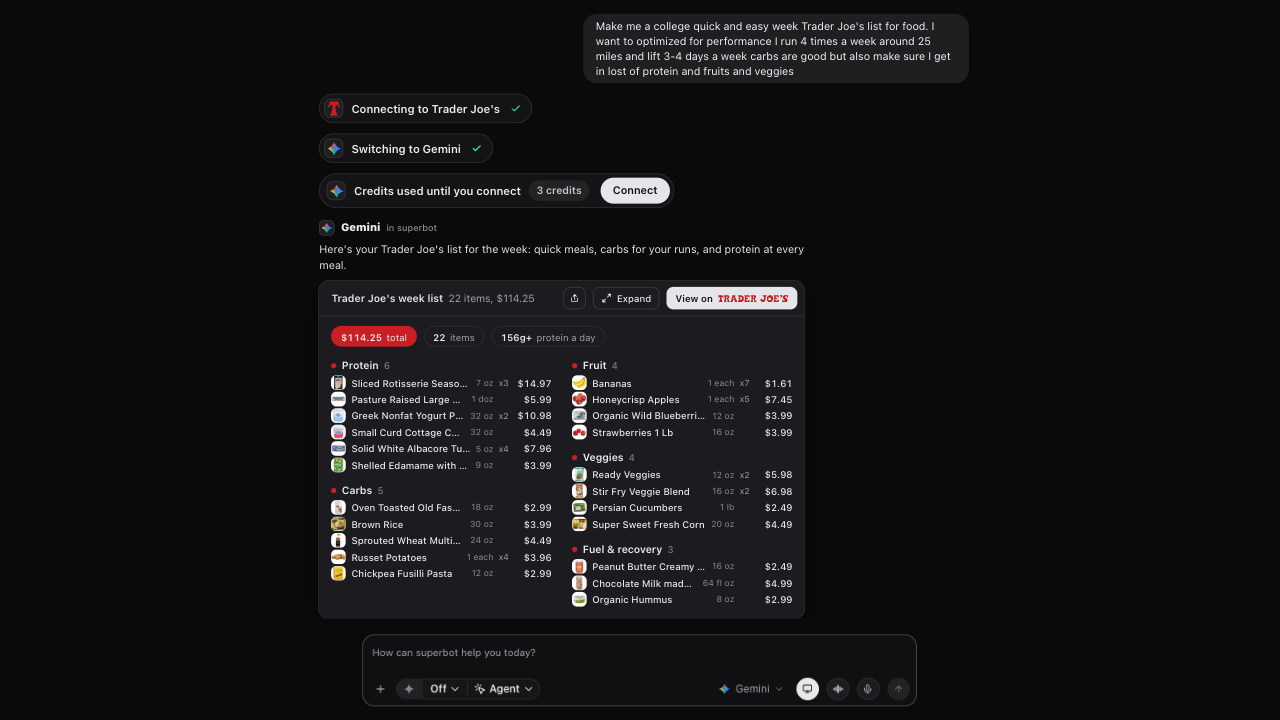
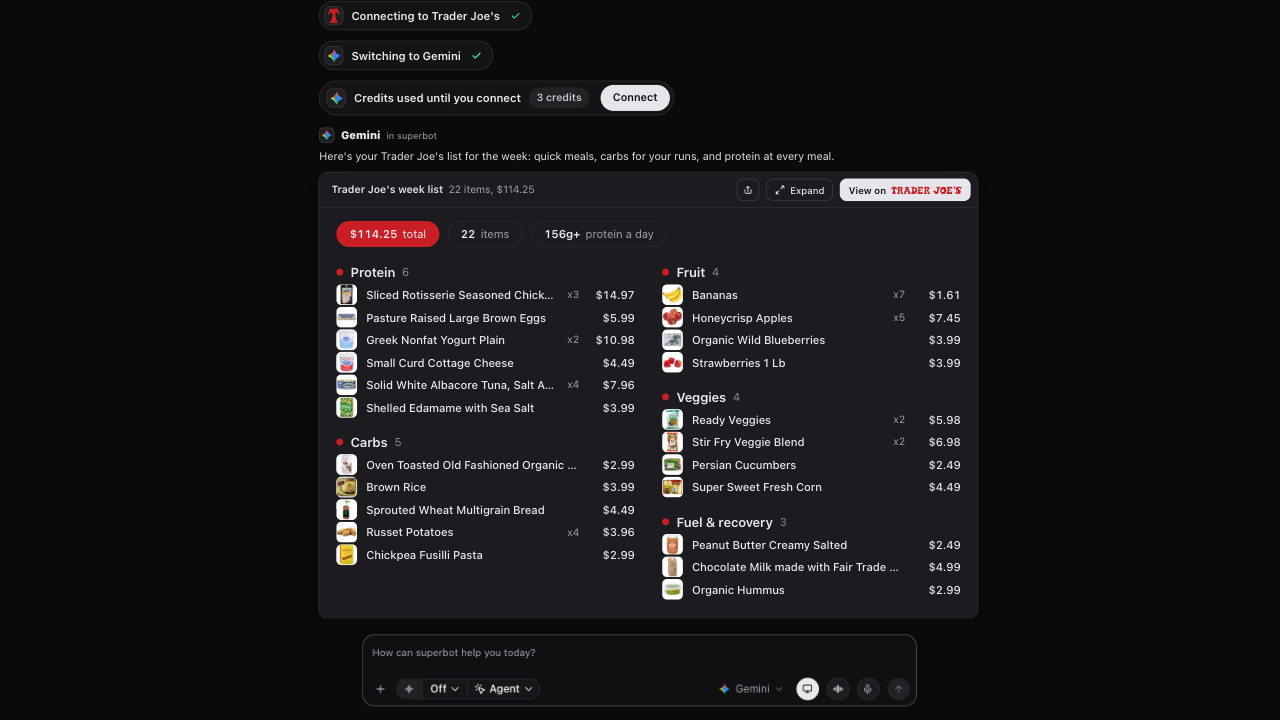
Trader Joe's variant: bigger 760px card, skeleton shimmer start, browsing frame and size column removed

diff --git a/animations/gemini-muse-meme-superbot-6fbc38f8/scenes/tabs-assets/beats/traderjoes.4aaedb8c.js b/animations/gemini-muse-meme-superbot-6fbc38f8/scenes/tabs-assets/beats/traderjoes.4aaedb8c.js
@@ -1,32 +1,27 @@
 // Trader Joe's list beat (the 'traderjoes' variant): asked for a college-budget week of Trader Joe's food for a runner who
 // lifts, superbot connects Trader Joe's, then Gemini answers with a line and an artifact card in the bakery variant's frame
 // (bakery.005f5570.js: title, Share, Expand and, in Publish's place, a View on Trader Joe's link to the store, as the
-// doordash variant's View in DoorDash). The card first shows the real traderjoes.com search page being browsed: the capture
-// scrolls under a small address pill and the products that make the list are ringed in Trader Joe's red one after another,
-// while a status pill counts "Picked N of <COUNT>". At T.g0 the page lands as the finished list the way the spending
-// variant's chart does (beats/thumb-land.309eb9c5.js: a soft sweep, then over LAND seconds the page fades out and the list
-// fades in as it settles from 1.08x): a row of pills (total, item count, protein a day) over two columns of borderless
-// grocery groups, thumbnail, name, size, quantity and line price per row. Squeezed into the window the router leaves
+// doordash variant's View in DoorDash). The card is wider than the bakery's 560: it spans the 760px chat column like the
+// Default 10 grid (catsurf10.a35789f3.css), over a 760 x 475 view. It enters as an empty skeleton, the bare surface with the
+// soft white sweep a climbing tile shows before its thumbnail lands (beats/thumb-land.309eb9c5.js shimmer over .bk-sh), and
+// at T.g0 the finished list lands the way a climbing thumbnail does (the sweep fades out while the list fades in settling
+// from 1.08x): a row of pills (total, item count, protein a day) over two columns of borderless grocery groups, thumbnail,
+// name, quantity (only when more than one) and line price per row. Squeezed into the window the router leaves
 // (times(r, end)); the scene is a pure function of t, with no pointer. Its stylesheet (../traderjoes.4aaedb8c.css) loads
-// with the module. Every product, size, price, thumbnail and the page capture are real, read from traderjoes.com on
-// 2026-10-15 and kept in ./traderjoes-data.4aaedb8c.js (sources and the protein arithmetic are documented there and in
+// with the module. Every product, size, price and thumbnail is real, read from traderjoes.com on 2026-10-15 and kept in
+// ./traderjoes-data.4aaedb8c.js (sources and the protein arithmetic are documented there and in
 // img/traderjoes.4aaedb8c/CREDITS.txt); this module only lays them out, so no figure here is typed in by hand.
-import { lerp, seg, outCubic, inOutCubic, streamCount } from '../../../lib.9b47fc30.js';
+import { lerp, seg, outCubic, streamCount } from '../../../lib.9b47fc30.js';
 import { track } from '../../../loads.9e82faf1.js';
 import { landing, shimmer, settle } from './thumb-land.309eb9c5.js';
 import { EXPAND, loadSheet as loadFrameSheet } from './bakery.005f5570.js?v=3';
 // the Share control every output card carries, in front of Expand
 import { shareBtn } from './share.29a362ea.js';
-import { STORE, LOGO, RED, SITE, GROUPS, TOTAL, COUNT, PROTEIN_PER_DAY } from './traderjoes-data.4aaedb8c.js';
+import { STORE, LOGO, RED, GROUPS, TOTAL, COUNT, PROTEIN_PER_DAY } from './traderjoes-data.4aaedb8c.js';
 
 const SAY = "Here's your Trader Joe's list for the week: quick meals, carbs for your runs, and protein at every meal.";
-const CSS = new URL('../traderjoes.4aaedb8c.css?v=1', import.meta.url).href;
-const VIEW = { w: 560, h: 350 }; // the bakery frame's view
-const SCALE = VIEW.w / SITE.w; // the capture fitted to the view's width
-const PAGE_H = SITE.h * SCALE; // its height at that scale
-const MAX_SCROLL = PAGE_H - VIEW.h; // the camera's last stop: the page's end at the view's bottom
-const PICK_AT = 300; // a picked row is ringed when its centre crosses this y in the view, clear of the status pill
-const SEC = 0.97; // the last row is ringed just before the camera comes to rest
+const CSS = new URL('../traderjoes.4aaedb8c.css?v=5', import.meta.url).href;
+const SKELETON = 0.9; // seconds the empty card sweeps before the list lands: a little over one pass of thumb-land's sweep (1.4 per second)
 // the two columns: groups by name, so a renamed group fails loudly instead of silently dropping out
 const COLS = [['Protein', 'Carbs'], ['Fruit', 'Veggies', 'Fuel & recovery']];
 
@@ -50,15 +45,12 @@ function loadSheet() {
   document.head.appendChild(sheet);
 }
 
-const CHECK = '<svg viewBox="0 0 24 24" aria-hidden="true"><path d="M5 12.5l4.5 4.5L19 7.5"/></svg>';
-
 export default {
   // `end` is the base route's end plus this variant's `extra` (chat.9b47fc30.js routeBy), which holds the finished list
   times(r, end = r + 2.35) {
     const T = { r };
     T.card = r + 0.22;
-    T.a0 = r + 0.5; T.a1 = r + 2.0; // the camera's scroll down the page
-    T.g0 = r + 2.3; // the list's landing time, after the last row is ringed
+    T.g0 = T.card + SKELETON; // the list's landing time
     T.end = end;
     return T;
   },
@@ -66,23 +58,13 @@ export default {
     loadFrameSheet();
     loadSheet();
     const T = k.T;
-    // the camera's offset down the page at t: ease in and out, blended halfway with linear so the rows stay legible mid-scroll
-    const scrollAt = (t) => { const p = seg(t, T.a0, T.a1); return MAX_SCROLL * lerp(p, inOutCubic(p), 0.5); };
-    // when each picked row is ringed: the first t at which the camera has brought its centre up to PICK_AT
-    const picks = SITE.picks.map((p) => {
-      const need = Math.min(((p.y + p.h / 2) * SCALE) - PICK_AT, MAX_SCROLL * SEC);
-      let lo = T.a0, hi = T.a1;
-      for (let i = 0; i < 40; i++) { const mid = (lo + hi) / 2; if (scrollAt(mid) < need) lo = mid; else hi = mid; }
-      return { ...p, at: hi };
-    });
-    const rings = picks.map((p) => `<span class="tj-pick" style="left:${(p.x * SCALE).toFixed(2)}px;top:${(p.y * SCALE).toFixed(2)}px;width:${(p.w * SCALE).toFixed(2)}px;height:${(p.h * SCALE).toFixed(2)}px"><i>${CHECK}</i></span>`).join('');
     const sections = COLS.map((names) => `<div class="tj-col">${names.map((n) => {
       const g = group(n);
-      const rows = g.items.map((it) => `<li><img src="${x.img(it.img)}" width="96" height="96" alt=""><span class="tj-n">${x.esc(it.name)}</span><span class="tj-s">${x.esc(it.size)}</span><span class="tj-q">${it.qty > 1 ? `x${it.qty}` : ''}</span><b>${x.esc(usd(it.price * it.qty))}</b></li>`).join('');
+      const rows = g.items.map((it) => `<li><img src="${x.img(it.img)}" width="96" height="96" alt=""><span class="tj-n">${x.esc(it.name)}</span><span class="tj-q">${it.qty > 1 ? `x${it.qty}` : ''}</span><b>${x.esc(usd(it.price * it.qty))}</b></li>`).join('');
       return `<section class="tj-g"><h3><i></i>${x.esc(g.name)}<small>${g.items.length}</small></h3><ul>${rows}</ul></section>`;
     }).join('')}</div>`).join('');
     const proteinPill = PROTEIN_PER_DAY == null ? '' : `<span class="tj-kpi"><b>${PROTEIN_PER_DAY}g+</b> protein a day</span>`;
-    const srRows = GROUPS.flatMap((g) => g.items.map((it) => `<tr><th scope="row">${x.esc(it.name)}</th><td>${x.esc(g.name)}</td><td>${x.esc(it.size)}</td><td>${it.qty}</td><td>${x.esc(usd(it.price * it.qty))}</td></tr>`)).join('');
+    const srRows = GROUPS.flatMap((g) => g.items.map((it) => `<tr><th scope="row">${x.esc(it.name)}</th><td>${x.esc(g.name)}</td><td>${it.qty}</td><td>${x.esc(usd(it.price * it.qty))}</td></tr>`)).join('');
     const say = x.el(`<div class="qc-say"><span class="qc-vis"></span><span class="qc-hid">${x.esc(SAY)}</span></div>`);
     const block = x.el(`<div class="bk tj" style="--tj-red:${RED}">
       <div class="bk-head">
@@ -96,28 +78,22 @@ export default {
           <div class="tj-pills"><span class="tj-kpi tj-total"><b>${x.esc(usd(TOTAL))}</b> total</span><span class="tj-kpi"><b>${COUNT}</b> items</span>${proteinPill}</div>
           <div class="tj-cols">${sections}</div>
         </div>
-        <div class="tj-site" aria-hidden="true">
-          <div class="tj-cam"><img class="tj-shot" src="${x.img(SITE.shot)}" width="${SITE.w}" height="${SITE.h}" alt="">${rings}</div>
-          <span class="tj-url">${x.esc(SITE.url)}</span>
-          <span class="tj-count">Picked <b>0</b> of ${COUNT}</span>
-        </div>
         <i class="bk-sh"></i>
         <table class="tj-sr"><caption>Trader Joe's week list: ${COUNT} items, ${x.esc(usd(TOTAL))}</caption>
-          <tr><th scope="col">Item</th><th scope="col">Group</th><th scope="col">Size</th><th scope="col">Quantity</th><th scope="col">Price</th></tr>${srRows}</table>
+          <tr><th scope="col">Item</th><th scope="col">Group</th><th scope="col">Quantity</th><th scope="col">Price</th></tr>${srRows}</table>
       </div>
     </div>`);
     const $ = (s) => block.querySelector(s);
-    const list = $('.tj-list'), site = $('.tj-site'), cam = $('.tj-cam'), sh = $('.bk-sh'), tally = $('.tj-count b');
-    const ringEls = [...block.querySelectorAll('.tj-pick')];
+    const list = $('.tj-list'), sh = $('.bk-sh');
     const vis = say.firstElementChild, hid = say.lastElementChild;
-    let shown = -1, decoding = false, counted = -1;
+    let shown = -1, decoding = false;
 
     return {
       nodes: [say, block],
       marks: [[T.r, say], [T.card, block]],
       render(t) {
-        // a frozen frame waits on the capture, the logo and the thumbnails; decode() only works once the nodes have left
-        // the template's inert document, which they have by the first render
+        // a frozen frame waits on the logo and the thumbnails; decode() only works once the nodes have left the
+        // template's inert document, which they have by the first render
         if (!decoding) {
           decoding = true;
           for (const pic of block.querySelectorAll('img')) {
@@ -130,24 +106,10 @@ export default {
         block.style.opacity = ci.toFixed(3);
         block.style.transform = ci >= 1 ? 'none' : `translateY(${((1 - ci) * 14).toFixed(2)}px) scale(${lerp(0.96, 1, ci).toFixed(4)})`;
 
-        // phase A, browsing: the capture scrolls and each picked row is ringed as it passes; the status pill counts up
-        // through the six rings and on to COUNT as the camera settles
-        cam.style.transform = `translateY(${(-scrollAt(t)).toFixed(2)}px)`;
-        let ringed = 0;
-        ringEls.forEach((el, i) => {
-          const f = outCubic(seg(t, picks[i].at, picks[i].at + 0.18));
-          if (f > 0) ringed = i + 1;
-          el.style.opacity = f.toFixed(3);
-          el.firstElementChild.style.transform = `scale(${lerp(0.6, 1, f).toFixed(3)})`;
-        });
-        const c = Math.min(COUNT, Math.max(ringed, Math.floor(COUNT * seg(t, picks[0].at, T.g0 - 0.12))));
-        if (c !== counted) { tally.textContent = String(c); counted = c; }
-
-        // phase B, the list lands the way a climbing thumbnail does (thumb-land.309eb9c5.js): a soft sweep runs until
-        // T.g0, then over LAND seconds the sweep and the page fade out while the list fades in and settles from 1.08x
+        // the empty skeleton sweeps from T.card until T.g0, then over LAND seconds (thumb-land.309eb9c5.js) the sweep fades
+        // out while the list fades in and settles from 1.08x, exactly as a climbing thumbnail lands
         const p = landing(t, T.g0);
         shimmer(sh, t, T.card, 0, p);
-        site.style.opacity = Math.max(0, 1 - 1.8 * p).toFixed(3); // the page is gone by 0.55 of the way, so the two never share a muddy middle
         settle(list, p);
       },
     };

diff --git a/animations/gemini-muse-meme-superbot-6fbc38f8/scenes/tabs-assets/traderjoes.4aaedb8c.css b/animations/gemini-muse-meme-superbot-6fbc38f8/scenes/tabs-assets/traderjoes.4aaedb8c.css
@@ -1,12 +1,24 @@
-/* The 'traderjoes' variant's answer (beats/traderjoes.4aaedb8c.js): the real traderjoes.com search page (img/traderjoes.4aaedb8c/
-   site.jpg, 896 x 2250 CSS px) browsed in the bakery variant's artifact frame (bakery.005f5570.css .bk, whose frame, header,
-   button and shimmer rules it reuses, like the spending and doordash variants), then the finished grocery list. A 560px frame,
-   a 40px header (title, Share, Expand, View on Trader Joe's) over a 350px view, so it is 560 x 390 like the others.
+/* The 'traderjoes' variant's answer (beats/traderjoes.4aaedb8c.js): a grocery list in the bakery variant's artifact frame
+   (bakery.005f5570.css .bk, whose header, button and shimmer rules it reuses, like the spending and doordash variants). The
+   card spans the 760px chat column like the Default 10 grid (catsurf10.a35789f3.css .cs10) instead of the bakery's 560px: the
+   same 40px header (title, Share, Expand, View on Trader Joe's) over a 475px view (350 x 760 / 560), so it is 760 x 515, and
+   everything in the view is the 560 design scaled by about 1.36. The view first shows the bare surface and the sweep (.bk-sh),
+   the same skeleton as a climbing tile, until the list lands.
    Palette: the frame's #1c1c20 surface, #2a2a2e hairline, #ececf0 primary, #a1a1a6 secondary and #8a8a90 tertiary text, plus
    Trader Joe's red, set inline as --tj-red from the data module's RED (the fill of the site's own logo): the one accent, on
-   the picked rows, their check badges, the total and the group dots. Radii: 6px (thumbnails, picked rows, address pill) and
-   999px (pills, dots). The list is laid out so it fits the 350px view exactly: 12 padding, the 24 pill row, 12 gap, then a
-   column of at most 3 headings of 20, 11 rows of 19 and 2 section gaps of 10 = 289 (<= 290), and 12 padding. */
+   the total and the group dots. Radii: 6px (thumbnails) and 999px (pills, dots). The list is laid out so it fits the 475px
+   view: 16 padding, the 30 pill row, 16 gap, then a column of at most 3 headings of 26, 11 rows of 26 and 2 section gaps of
+   14 = 392, and 16 padding = 470 (<= 475). Two columns of (760 - 2 x 20 padding - 32 gap) / 2 = 344px; a row is a 24px
+   thumbnail, the name (the rest, ellipsized when the card is narrower), the quantity (only when above 1) and the line price. */
+/* Width: 760px wherever the reply column has room for it (16x9, 4x3, 1x1), else the reply's width (.m-main, already
+   inset 10px from the column's left) less a matching 10px on the right, so both margins are equal (4x5's 864px stage leaves a
+   617px column). The bakery's `.bk { max-width: 100% }` cannot clamp it by itself: the reply's
+   .m-main is a grid whose auto track grows to the card's width, and hub.css caps .m-main at --hub-reply (471px) besides, so
+   this variant's .m-main (and only it, via :has) spans the column and is the container the card's width is measured in. */
+#s-tabs .sbsite .hub .msg.qc-r .m-main:has(> .bk.tj) { max-width: none; container-type: inline-size; }
+#s-tabs .sbsite .hub .bk.tj { width: calc(100cqw - 10px); }
+@container (min-width: 740px) { #s-tabs .sbsite .hub .bk.tj { width: 760px; } }
+#s-tabs .sbsite .hub .tj .bk-view { height: 475px; }
 #s-tabs .sbsite .hub .tj .bk-title small { margin-left: 6px; font: 400 12px/16px var(--ui); color: #a1a1a6; }
 /* the connected store's chip tile, as the other connectors' (chat.css .qc-t-gemini) */
 #s-tabs .sbsite .hub .qc-t-traderjoes { background: #1f1f22; box-shadow: inset 0 0 0 1px #34343a; }
@@ -18,36 +30,25 @@
 #s-tabs .sbsite .hub a.bk-btn.tj-open:hover { background: #fff; }
 #s-tabs .sbsite .hub .bk-btn.tj-open img { display: block; width: 82px; height: 9px; }
 
-/* phase A: the capture under a camera that scrolls it, a pill with the page's address, a pill with the picked count */
-#s-tabs .sbsite .hub .tj-site { position: absolute; inset: 0; overflow: hidden; }
-#s-tabs .sbsite .hub .tj-cam { position: absolute; top: 0; left: 0; width: 560px; will-change: transform; }
-#s-tabs .sbsite .hub .tj-shot { display: block; width: 560px; height: 1406.25px; max-width: none; }
-#s-tabs .sbsite .hub .tj-pick { position: absolute; border-radius: 6px; box-shadow: 0 0 0 2px var(--tj-red); opacity: 0; }
-#s-tabs .sbsite .hub .tj-pick i { position: absolute; top: 8px; right: 8px; display: grid; place-items: center; width: 20px; height: 20px; border-radius: 999px; background: var(--tj-red); color: #ececf0; }
-#s-tabs .sbsite .hub .tj-pick svg { display: block; width: 12px; height: 12px; fill: none; stroke: currentColor; stroke-width: 3; stroke-linecap: round; stroke-linejoin: round; }
-#s-tabs .sbsite .hub .tj-url { position: absolute; top: 8px; left: 50%; max-width: calc(100% - 28px); padding: 0 10px; border-radius: 6px; background: #1c1c20; box-shadow: 0 0 0 1px #2a2a2e, 0 6px 16px rgba(0,0,0,.35); overflow: hidden; text-overflow: ellipsis; white-space: nowrap; font: 500 11px/22px var(--ui); color: #a1a1a6; transform: translateX(-50%); }
-#s-tabs .sbsite .hub .tj-count { position: absolute; bottom: 12px; left: 50%; padding: 0 14px; border-radius: 999px; background: #1c1c20; box-shadow: 0 0 0 1px #2a2a2e, 0 6px 16px rgba(0,0,0,.35); white-space: nowrap; font: 500 12px/28px var(--ui); color: #a1a1a6; font-variant-numeric: tabular-nums; transform: translateX(-50%); }
-#s-tabs .sbsite .hub .tj-count b { display: inline-block; min-width: 1.1em; text-align: right; font-weight: 600; color: #ececf0; }
-
-/* phase B: pills over two columns of borderless groups */
-#s-tabs .sbsite .hub .tj-list { position: absolute; inset: 0; box-sizing: border-box; display: flex; flex-direction: column; gap: 12px; padding: 12px 14px; font-family: var(--ui); opacity: 0; }
-#s-tabs .sbsite .hub .tj-pills { display: flex; gap: 8px; height: 24px; }
-#s-tabs .sbsite .hub .tj-kpi { display: inline-flex; align-items: center; gap: 5px; height: 24px; padding: 0 11px; border-radius: 999px; box-shadow: inset 0 0 0 1px #2a2a2e; font: 400 11px/1 var(--ui); color: #a1a1a6; }
-#s-tabs .sbsite .hub .tj-kpi b { font: 600 11px/1 var(--ui); color: #ececf0; font-variant-numeric: tabular-nums; }
+/* the list: pills over two columns of borderless groups */
+#s-tabs .sbsite .hub .tj-list { position: absolute; inset: 0; box-sizing: border-box; display: flex; flex-direction: column; gap: 16px; padding: 16px 20px; font-family: var(--ui); opacity: 0; }
+#s-tabs .sbsite .hub .tj-pills { display: flex; gap: 10px; height: 30px; }
+#s-tabs .sbsite .hub .tj-kpi { display: inline-flex; align-items: center; gap: 6px; height: 30px; padding: 0 15px; border-radius: 999px; box-shadow: inset 0 0 0 1px #2a2a2e; font: 400 13px/1 var(--ui); color: #a1a1a6; }
+#s-tabs .sbsite .hub .tj-kpi b { font: 600 13px/1 var(--ui); color: #ececf0; font-variant-numeric: tabular-nums; }
 #s-tabs .sbsite .hub .tj-total { background: var(--tj-red); box-shadow: none; color: #ececf0; }
-#s-tabs .sbsite .hub .tj-cols { display: grid; grid-template-columns: 1fr 1fr; gap: 0 24px; align-items: start; }
+#s-tabs .sbsite .hub .tj-cols { display: grid; grid-template-columns: minmax(0, 1fr) minmax(0, 1fr); gap: 0 32px; align-items: start; }
 #s-tabs .sbsite .hub .tj-col { min-width: 0; }
-#s-tabs .sbsite .hub .tj-g + .tj-g { margin-top: 10px; }
-#s-tabs .sbsite .hub .tj-g h3 { display: flex; align-items: center; gap: 6px; height: 20px; margin: 0; font: 600 12px/16px var(--ui); color: #ececf0; }
-#s-tabs .sbsite .hub .tj-g h3 i { flex: none; width: 6px; height: 6px; border-radius: 999px; background: var(--tj-red); }
-#s-tabs .sbsite .hub .tj-g h3 small { font: 400 11px/16px var(--ui); color: #8a8a90; font-variant-numeric: tabular-nums; }
+#s-tabs .sbsite .hub .tj-g + .tj-g { margin-top: 14px; }
+#s-tabs .sbsite .hub .tj-g h3 { display: flex; align-items: center; gap: 8px; height: 26px; margin: 0; font: 600 15px/20px var(--ui); color: #ececf0; }
+#s-tabs .sbsite .hub .tj-g h3 i { flex: none; width: 8px; height: 8px; border-radius: 999px; background: var(--tj-red); }
+#s-tabs .sbsite .hub .tj-g h3 small { font: 400 13px/20px var(--ui); color: #8a8a90; font-variant-numeric: tabular-nums; }
 #s-tabs .sbsite .hub .tj-g ul { margin: 0; padding: 0; list-style: none; }
-#s-tabs .sbsite .hub .tj-g li { display: flex; align-items: center; gap: 6px; height: 19px; font: 500 11px/19px var(--ui); color: #ececf0; }
-#s-tabs .sbsite .hub .tj-g li img { flex: none; display: block; width: 17px; height: 17px; border-radius: 6px; }
+#s-tabs .sbsite .hub .tj-g li { display: flex; align-items: center; gap: 10px; height: 26px; font: 500 13px/26px var(--ui); color: #ececf0; }
+#s-tabs .sbsite .hub .tj-g li img { flex: none; display: block; width: 24px; height: 24px; border-radius: 6px; }
 #s-tabs .sbsite .hub .tj-n { flex: 1; min-width: 0; overflow: hidden; text-overflow: ellipsis; white-space: nowrap; }
-#s-tabs .sbsite .hub .tj-s { flex: none; max-width: 42px; overflow: hidden; white-space: nowrap; font: 400 10px/19px var(--ui); color: #8a8a90; }
-#s-tabs .sbsite .hub .tj-q { flex: none; width: 15px; font: 400 10px/19px var(--ui); color: #a1a1a6; font-variant-numeric: tabular-nums; }
-#s-tabs .sbsite .hub .tj-g li b { flex: none; width: 40px; text-align: right; font: 500 11px/19px var(--ui); font-variant-numeric: tabular-nums; }
+#s-tabs .sbsite .hub .tj-q { flex: none; font: 400 12px/26px var(--ui); color: #a1a1a6; font-variant-numeric: tabular-nums; }
+#s-tabs .sbsite .hub .tj-q:empty { display: none; }
+#s-tabs .sbsite .hub .tj-g li b { flex: none; width: 54px; text-align: right; font: 500 13px/26px var(--ui); font-variant-numeric: tabular-nums; }
 #s-tabs .sbsite .hub .tj-sr { position: absolute; width: 1px; height: 1px; overflow: hidden; clip-path: inset(50%); white-space: nowrap; }
 
 /* a variant that types a long ask (chat.9b47fc30.js typeCps): the composer wraps it instead of clipping it on one line */

diff --git a/animations/gemini-muse-meme-superbot-6fbc38f8/scenes/tabs-assets/chat.9b47fc30.js b/animations/gemini-muse-meme-superbot-6fbc38f8/scenes/tabs-assets/chat.9b47fc30.js
@@ -19,7 +19,7 @@ import podcast from './beats/podcast.3b06d700.js?v=1';
 import pitchdeck from './beats/pitchdeck.fad54971.js?v=2';
 import bakery from './beats/bakery.005f5570.js?v=3';
 import spending from './beats/spending.b92c87dc.js?v=1';
-import traderjoes from './beats/traderjoes.4aaedb8c.js?v=1';
+import traderjoes from './beats/traderjoes.4aaedb8c.js?v=5';
 import skydio from './beats/skydio.c9774aa7.js?v=2';
 import reminder from './beats/reminder.e55fb320.js?v=3';
 import computerV3 from './beats/computer.ba3976b6.js?v=8';
@@ -69,7 +69,7 @@ const BASE = [
     // that much longer (see leadOf). `extra` seconds stretch that variant's loop past the base route's end (the beat
     // is the last, so nothing after it moves). `typeCps` types that variant's ask at that many characters a second
     // instead of the base window (see typing), which moves its send, chips, reply and beat later by the difference
-    routeBy:{ photoedit: { app: 'gemini', mod: gemini, chips: [['gemini', 'Switching to Gemini']] }, '3d': { app: 'meshy', mod: gemini, chips: [['meshy', 'Switching to Meshy']] }, pitchdeck: { app: 'gemini', mod: pitchdeck, chips: [['gslides', 'Connecting to Google Slides'], ['gemini', 'Switching to Gemini']] }, roadtrip: { app: 'maps', mod: gemini, chips: [['gmaps', 'Connecting to Maps']] }, spending: { app: 'gemini', mod: spending, chips: [['gsheets', 'Connecting to Google Sheets'], ['gemini', 'Switching to Gemini']] }, skydio: { app: 'chatgpt', mod: skydio, chips: [['skydio', 'Reading skydio.com'], ['chatgpt', 'Switching to ChatGPT']], typeCps: 80, extra: 1.6 }, traderjoes: { app: 'gemini', mod: traderjoes, chips: [['traderjoes', "Connecting to Trader Joe's"], ['gemini', 'Switching to Gemini']], typeCps: 100, extra: 2.4 }, doordash:{ app: 'doordash', mod: doordash, chips: [['doordash', 'Connecting to DoorDash']] }, climbing: { app: 'deepseek', mod: climb, chips: [['youtube', 'Connecting to Youtube'], ['deepseek', 'Switching to DeepSeek']] }, catsurf: { app: 'fal', mod: catsurf, chips: [['fal', 'Connecting Fal.ai']], extra: 7 }, catsurf10: { app: 'fal', mod: catsurf10, chips: [['fal', 'Connecting Fal.ai']], extra: 7 },catgif: { app: 'gemini', mod: catgif, chips: [['gemini', 'Switching to Gemini']] }, song: { app: 'fishaudio', mod: song, chips: [['fishaudio', 'Connected to Fish Audio']], extra: 5 }, bedtime: { app: 'gemini', mod: bedtime, chips: [['gemini', 'Switching to Gemini']] }, bakery: { app: 'opus', mod: bakery, chips: [['opus', 'Switching to Opus 5.5']] }, podcast: { app: 'gemini', mod: podcast, chips: [['gemini', 'Switching to Gemini']] }, reminder: { app: 'superbot', mod: reminder, chips: [['superbot', 'Connecting to your phone']], extra: 1.5 }, 'computer-control-v3-soft': { app: 'superbot', mod: computerV3, chips: [['superbot', 'Taking control of your computer']], extra: 1.6 } },
+    routeBy:{ photoedit: { app: 'gemini', mod: gemini, chips: [['gemini', 'Switching to Gemini']] }, '3d': { app: 'meshy', mod: gemini, chips: [['meshy', 'Switching to Meshy']] }, pitchdeck: { app: 'gemini', mod: pitchdeck, chips: [['gslides', 'Connecting to Google Slides'], ['gemini', 'Switching to Gemini']] }, roadtrip: { app: 'maps', mod: gemini, chips: [['gmaps', 'Connecting to Maps']] }, spending: { app: 'gemini', mod: spending, chips: [['gsheets', 'Connecting to Google Sheets'], ['gemini', 'Switching to Gemini']] }, skydio: { app: 'chatgpt', mod: skydio, chips: [['skydio', 'Reading skydio.com'], ['chatgpt', 'Switching to ChatGPT']], typeCps: 80, extra: 1.6 }, traderjoes: { app: 'gemini', mod: traderjoes, chips: [['traderjoes', "Connecting to Trader Joe's"], ['gemini', 'Switching to Gemini']], typeCps: 100, extra: 1.2 }, doordash:{ app: 'doordash', mod: doordash, chips: [['doordash', 'Connecting to DoorDash']] }, climbing: { app: 'deepseek', mod: climb, chips: [['youtube', 'Connecting to Youtube'], ['deepseek', 'Switching to DeepSeek']] }, catsurf: { app: 'fal', mod: catsurf, chips: [['fal', 'Connecting Fal.ai']], extra: 7 }, catsurf10: { app: 'fal', mod: catsurf10, chips: [['fal', 'Connecting Fal.ai']], extra: 7 },catgif: { app: 'gemini', mod: catgif, chips: [['gemini', 'Switching to Gemini']] }, song: { app: 'fishaudio', mod: song, chips: [['fishaudio', 'Connected to Fish Audio']], extra: 5 }, bedtime: { app: 'gemini', mod: bedtime, chips: [['gemini', 'Switching to Gemini']] }, bakery: { app: 'opus', mod: bakery, chips: [['opus', 'Switching to Opus 5.5']] }, podcast: { app: 'gemini', mod: podcast, chips: [['gemini', 'Switching to Gemini']] }, reminder: { app: 'superbot', mod: reminder, chips: [['superbot', 'Connecting to your phone']], extra: 1.5 }, 'computer-control-v3-soft': { app: 'superbot', mod: computerV3, chips: [['superbot', 'Taking control of your computer']], extra: 1.6 } },
   },
 ];
 

diff --git a/animations/gemini-muse-meme-superbot-6fbc38f8/scenes/tabs-assets/beats/traderjoes-data.4aaedb8c.js b/animations/gemini-muse-meme-superbot-6fbc38f8/scenes/tabs-assets/beats/traderjoes-data.4aaedb8c.js
@@ -1,7 +1,6 @@
 // Real Trader Joe's data for the `traderjoes` ad variant. Sourced from traderjoes.com on 2026-10-15
 // (product titles, sizes, prices, product-page URLs and Nutrition Facts panels read from the site's own
-// search/PDP data; thumbnails are the site's primary product images; site.jpg is a live capture of
-// https://www.traderjoes.com/home/search?q=fresh+veggies at 896 CSS px, 2x).
+// search/PDP data; thumbnails are the site's primary product images).
 // Store context: no store chosen; the site was in its national default catalog (storeCode "TJ") and its
 // header showed "My Store: Littleton" (auto-assigned). Prices are as listed there; they vary by store.
 // protein = grams per whole package = servings per container x protein per serving (Nutrition Facts panel);
@@ -11,7 +10,6 @@
 export const STORE = 'https://www.traderjoes.com/home/products';
 export const LOGO = 'traderjoes.4aaedb8c/traderjoes-logo.svg';
 export const RED = '#C81E24'; // fill of the path in traderjoes.com/content/dam/trjo/pictures/logo.svg
-export const SITE = {"shot":"traderjoes.4aaedb8c/site.jpg","w":896,"h":2250,"url":"traderjoes.com/home/search?q=fresh veggies","picks":[{"x":111,"y":567,"w":674,"h":140,"name":"Ready Veggies"},{"x":111,"y":847,"w":674,"h":140,"name":"Stir Fry Veggie Blend"},{"x":111,"y":987,"w":674,"h":140,"name":"Super Sweet Fresh Corn"},{"x":111,"y":1267,"w":674,"h":140,"name":"Russet Potatoes"},{"x":111,"y":1687,"w":674,"h":140,"name":"Shelled Edamame with Sea Salt"},{"x":111,"y":2107,"w":674,"h":140,"name":"Persian Cucumbers"}]};
 export const GROUPS = [
   {
     "name": "Protein",

diff --git a/animations/gemini-muse-meme-superbot-6fbc38f8/timeline.9b47fc30.js b/animations/gemini-muse-meme-superbot-6fbc38f8/timeline.9b47fc30.js
@@ -3,10 +3,10 @@
 // a 60fps quantised clock. The one scene (scenes/tabs.js) plays once and holds its last frame: no loop. Space after
 // the end replays it from the start.
 import * as lib from './lib.9b47fc30.js';
-import tabs from './scenes/tabs.9b47fc30.js?v=8';
+import tabs from './scenes/tabs.9b47fc30.js?v=10';
 import { settled } from './loads.9e82faf1.js';
 // the same module instance the tabs scene uses (the full URL, query included, keys an instance)
-import { BEATS, typeShift } from './scenes/tabs-assets/chat.9b47fc30.js?v=15';
+import { BEATS, typeShift } from './scenes/tabs-assets/chat.9b47fc30.js?v=17';
 import { variant } from './variant.9e82faf1.js';
 
 const { seg } = lib;

diff --git a/animations/gemini-muse-meme-superbot-6fbc38f8/scenes/tabs.9b47fc30.js b/animations/gemini-muse-meme-superbot-6fbc38f8/scenes/tabs.9b47fc30.js
@@ -5,7 +5,7 @@
 // (tabs-assets/chat.js). render(lt) is a pure function of local time. The scene keeps the id "tabs" so the hub's
 // generated stylesheets (scoped under #s-tabs) apply unchanged.
 import { hubMarkup } from './tabs-assets/hub-markup.9b47fc30.js';
-import { mountChat, renderChat, CHAT_T0, chatEnd, sendAt } from './tabs-assets/chat.9b47fc30.js?v=15';
+import { mountChat, renderChat, CHAT_T0, chatEnd, sendAt } from './tabs-assets/chat.9b47fc30.js?v=17';
 import { lerp, seg, outCubic, inOutCubic } from '../lib.9b47fc30.js';
 import { variant } from '../variant.9e82faf1.js';
 

diff --git a/animations/gemini-muse-meme-superbot-6fbc38f8/index.html b/animations/gemini-muse-meme-superbot-6fbc38f8/index.html
@@ -68,7 +68,7 @@
   };
 })();
 </script>
-<script type="module" src="timeline.9b47fc30.js?v=9" onload="bootLoaded()" onerror="bootFailed()"></script>
+<script type="module" src="timeline.9b47fc30.js?v=11" onload="bootLoaded()" onerror="bootFailed()"></script>
 <script type="module" src="variant-select.9e82faf1.js?v=9" onload="bootLoaded()" onerror="bootFailed()"></script>
 </body>
 </html>
